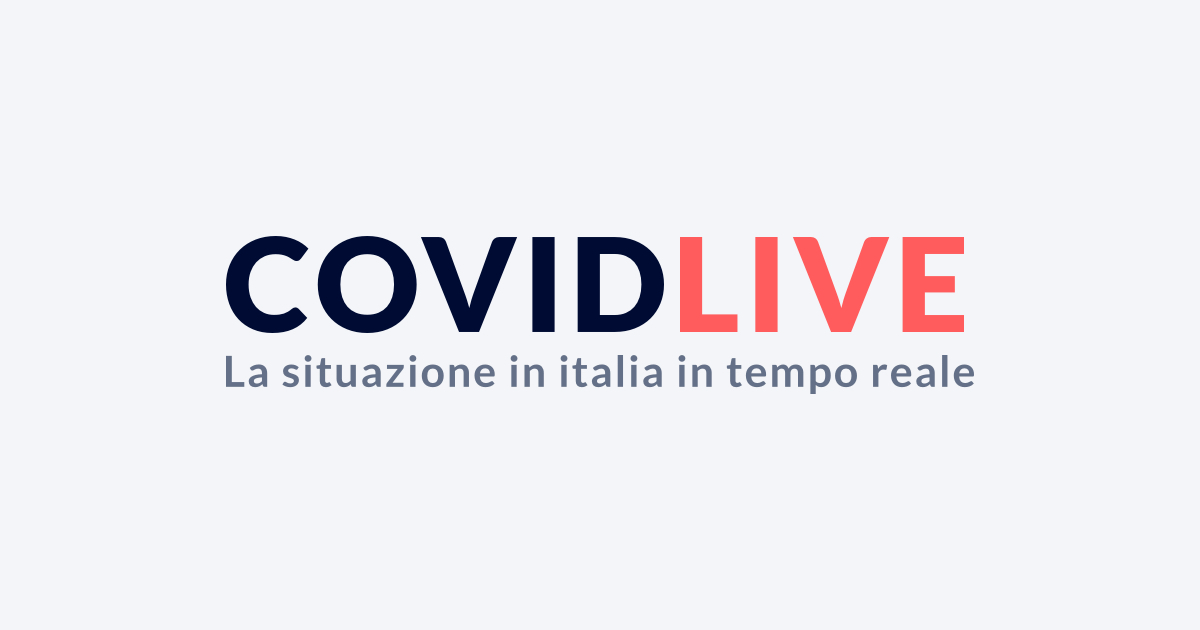
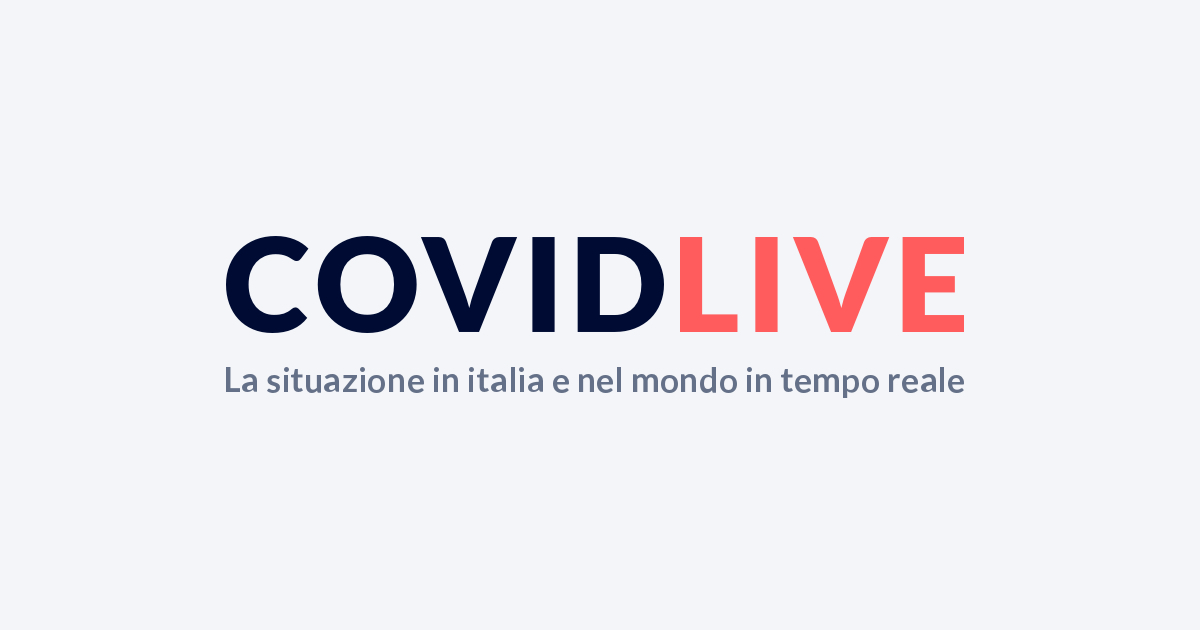
little improvements

Changed region(s): [[0.185, 0.573, 0.8325, 0.6333]]

diff --git a/gatsby-config.js b/gatsby-config.js
@@ -4,8 +4,8 @@ require("dotenv").config({
 // config
 module.exports = {
   siteMetadata: {
-    title: `Covid Live: la situazione in tempo reale`,
-    description: `Tutti i dati aggiornati sulla diffusione di Covid-19 in Italia`,
+    title: `Covid Live: la situazione in Italia e nel Mondo in tempo reale.`,
+    description: `Tutti i dati aggiornati sulla diffusione di Covid-19 in Italia e nel mondo`,
     author: `@giacomo.alonzi`,
     siteUrl: "https://covidlive.it",
   },
@@ -30,7 +30,7 @@ module.exports = {
         path: `${__dirname}/src/data/lang`,
         languages: [`en`, `it`],
         defaultLanguage: `it`,
-        redirect: false,
+        redirect: true,
       },
     },
     {
